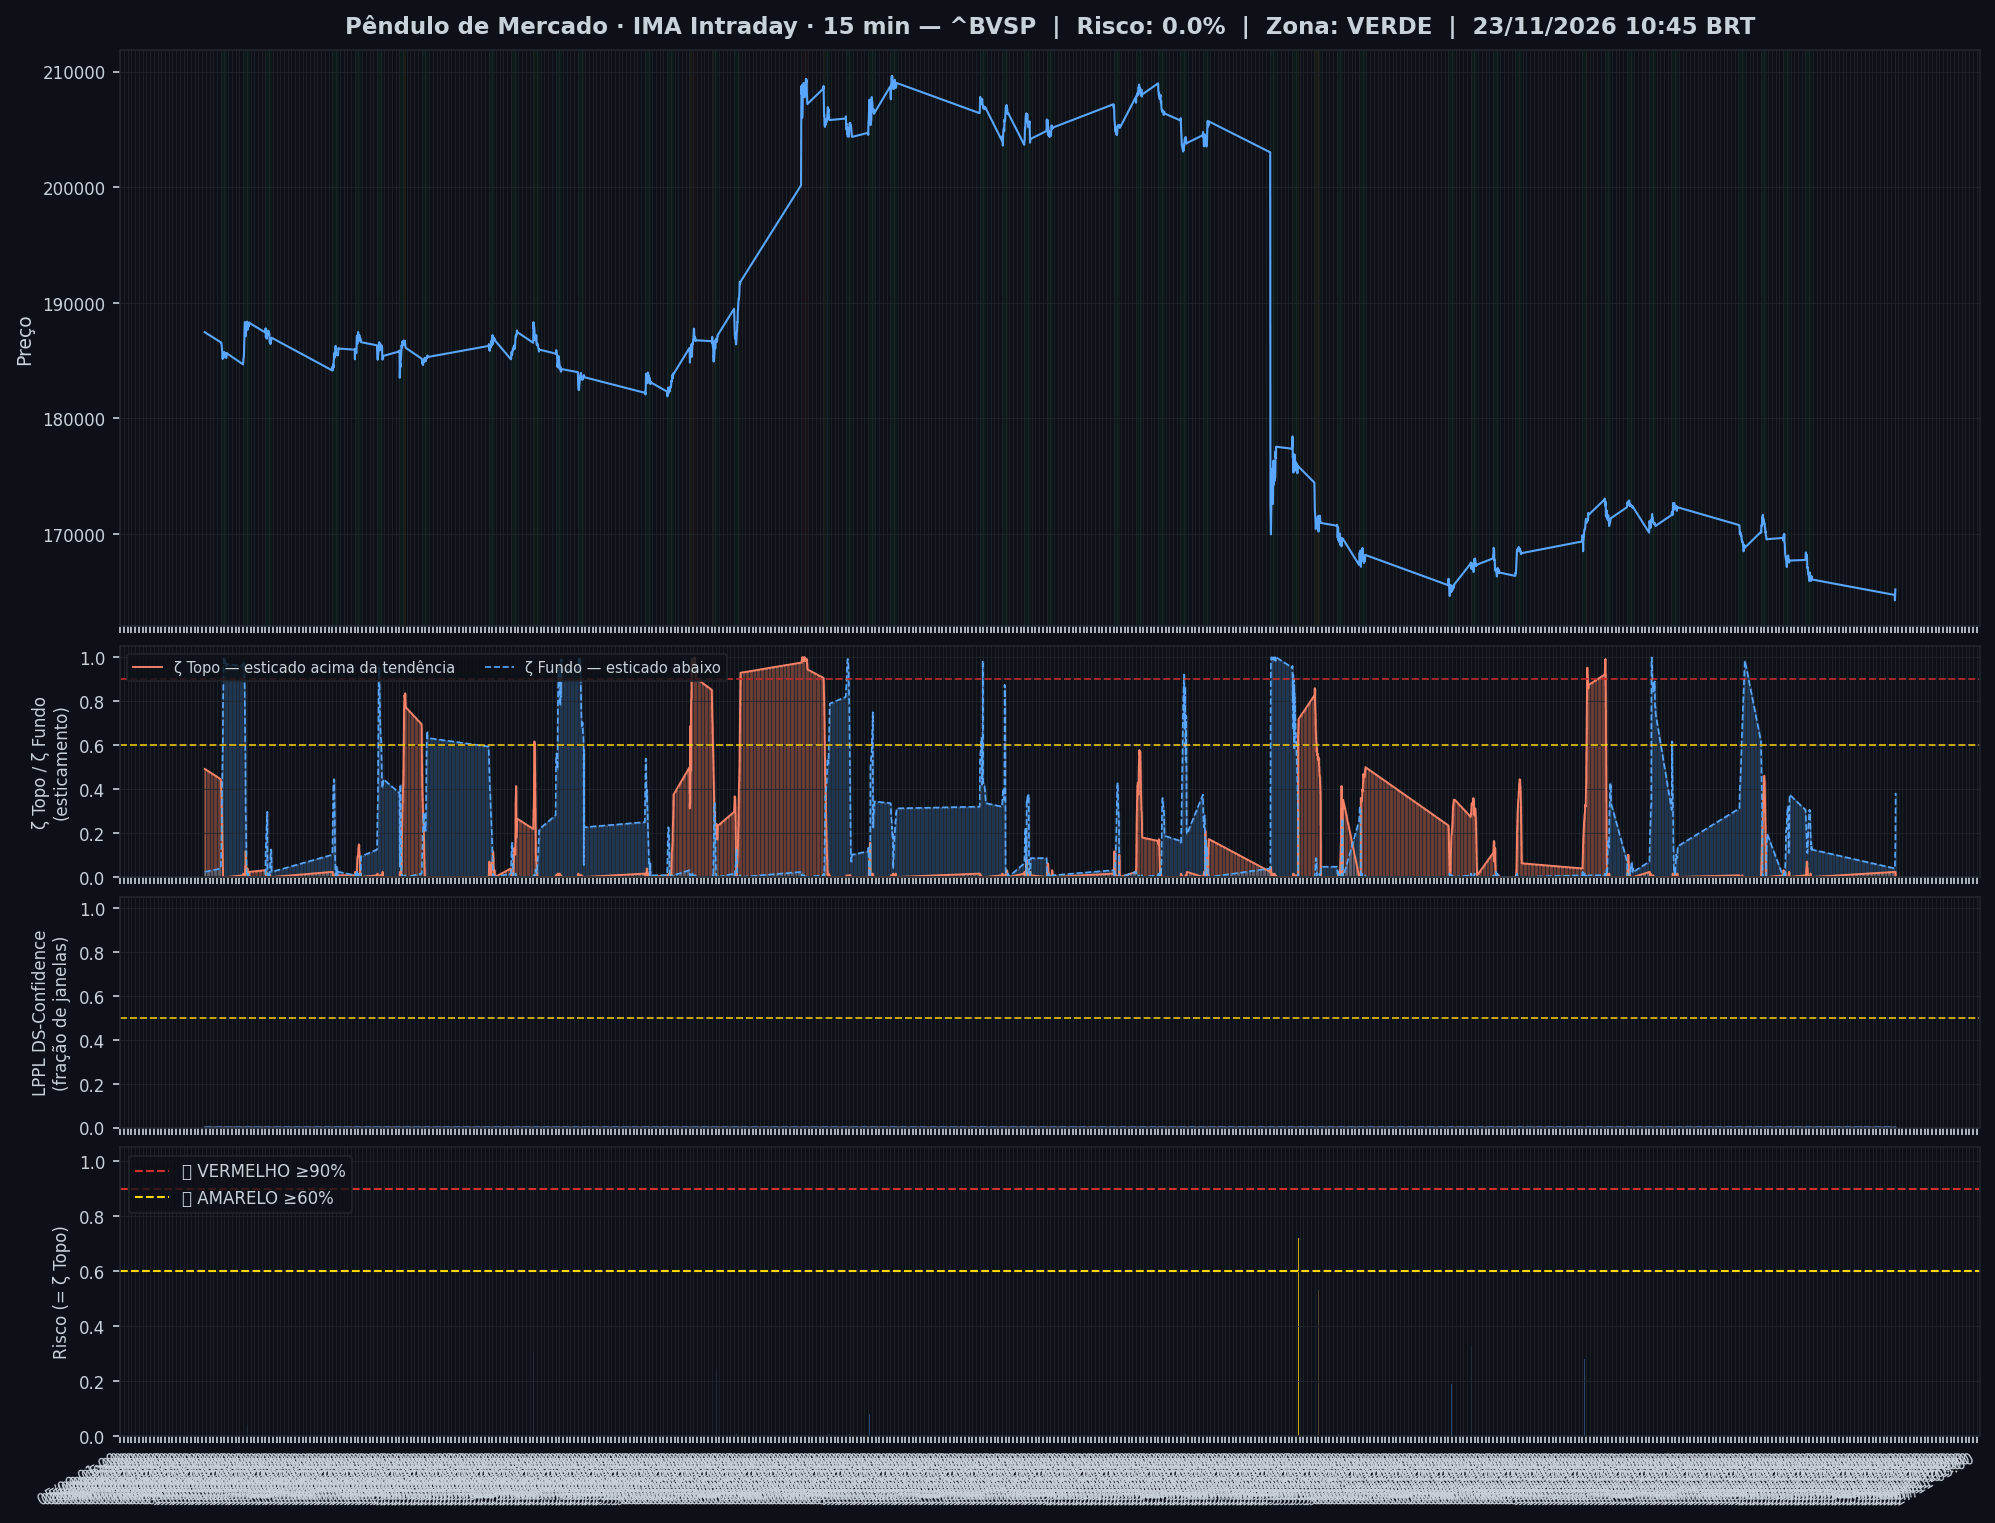
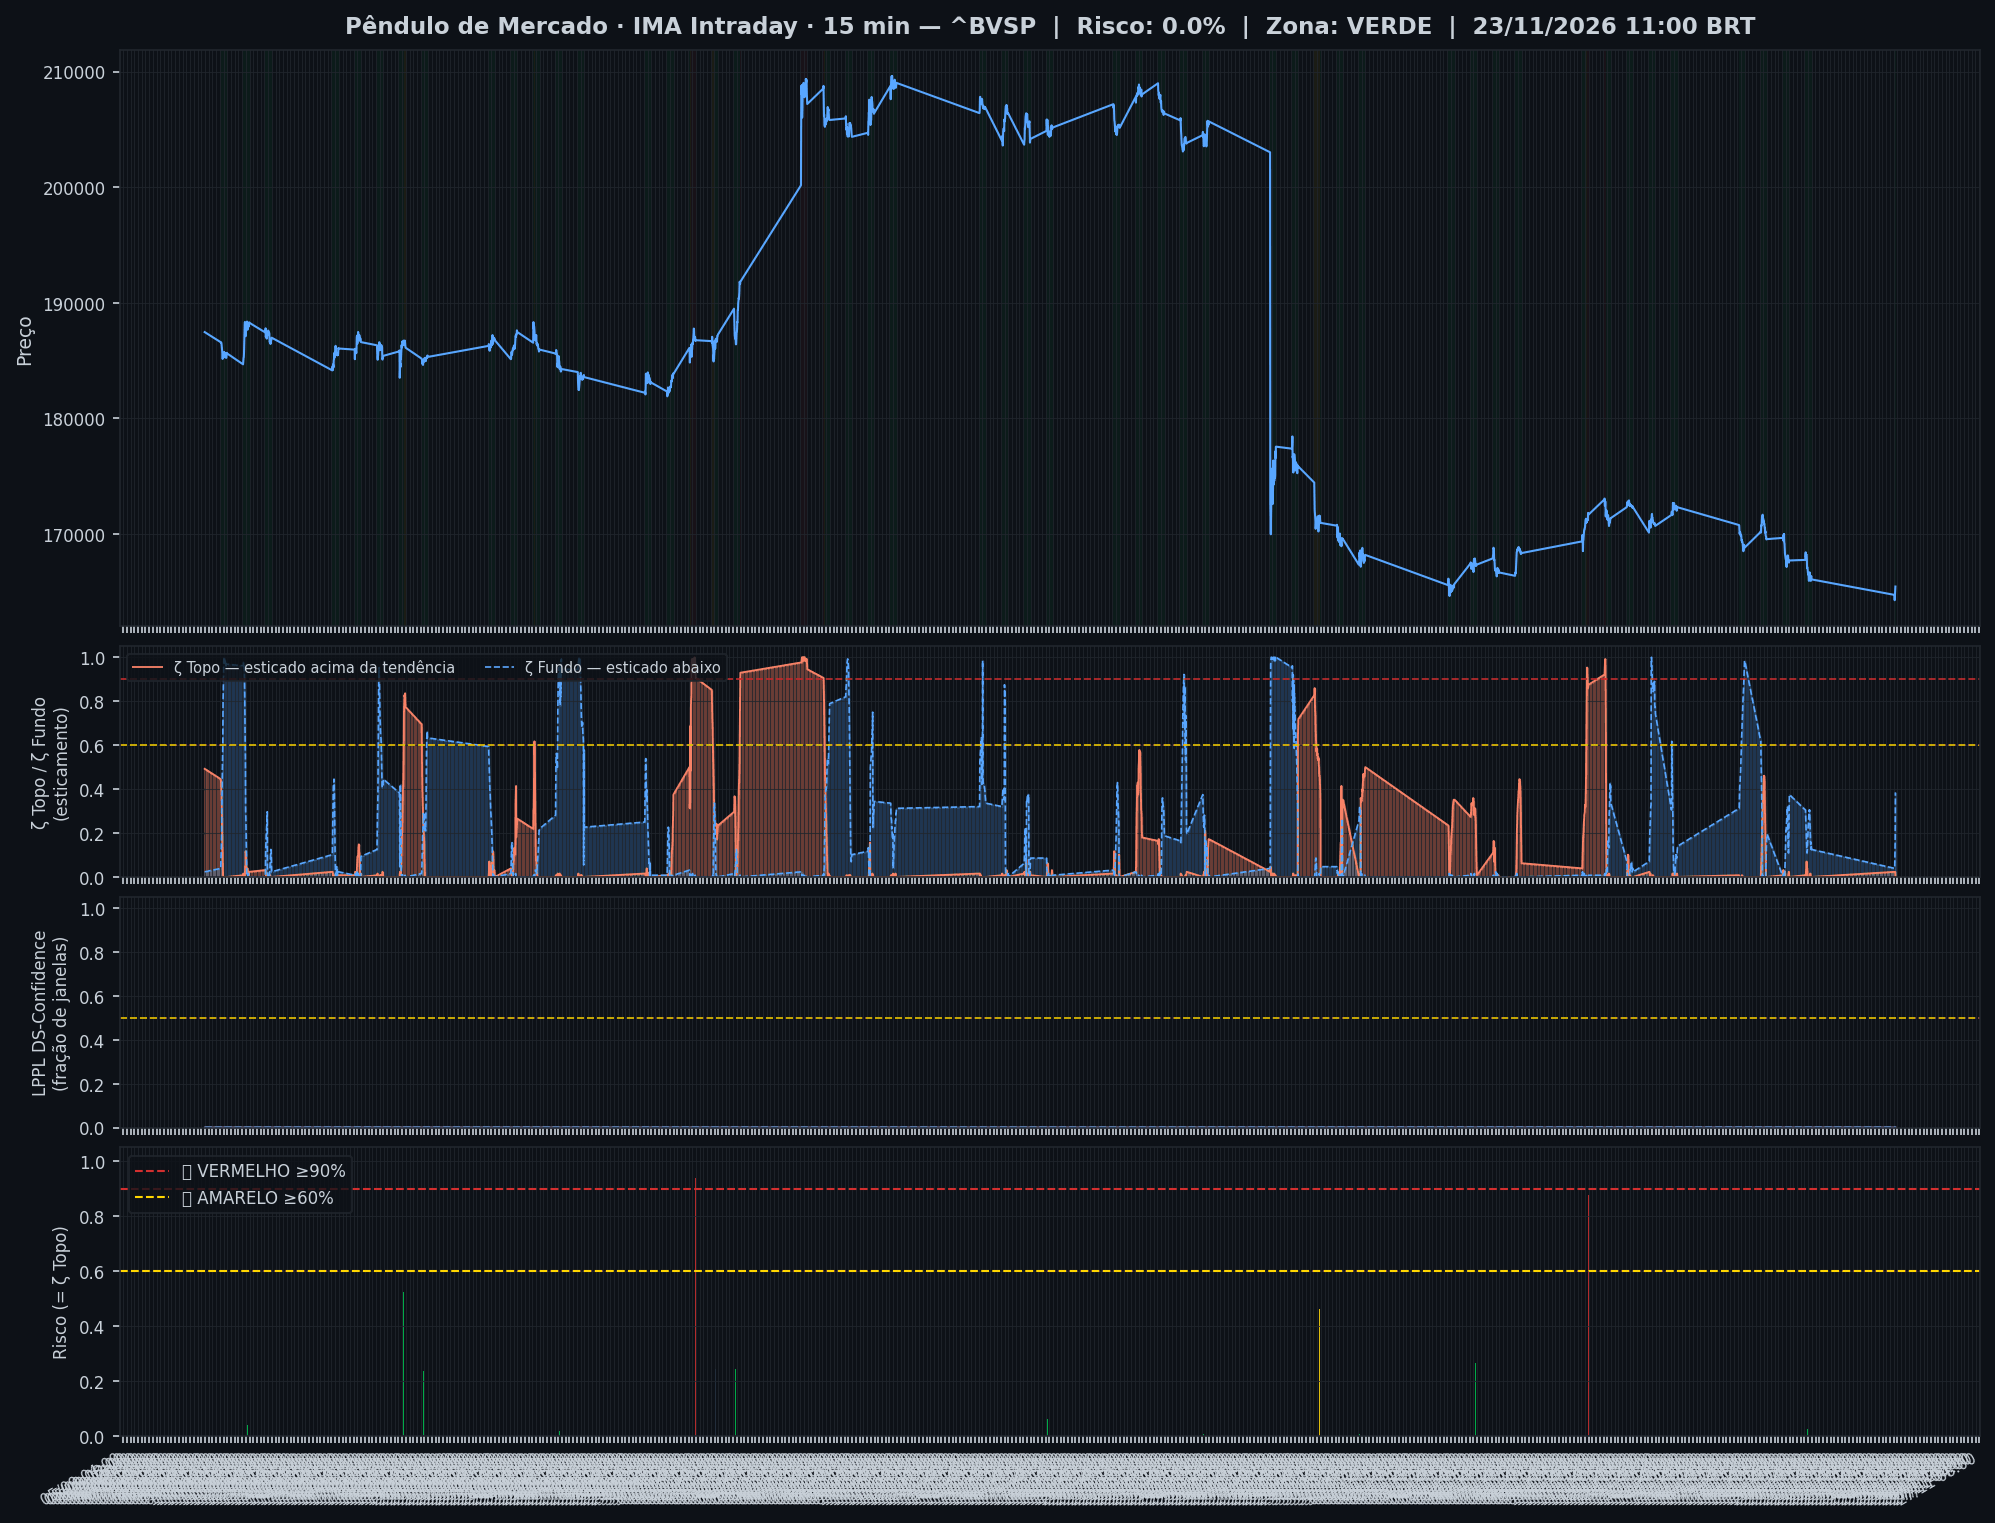
🤖 Auto: Sinal 23/11/2026 11:45

Changed region(s): [[0.0311, 0.9258, 0.9945, 0.9875], [0.0932, 0.432, 0.5283, 0.5863], [0.5594, 0.432, 0.9634, 0.5863]]

diff --git a/content/intraday/2026-11-23.md b/content/intraday/2026-11-23.md
@@ -1,13 +1,13 @@
 ---
-title: "🟢 Intraday 23/11/2026 10:45 BRT — VERDE"
+title: "🟢 Intraday 23/11/2026 11:00 BRT — VERDE"
 date: 2026-11-23
 tags: [intraday]
 ---
 
-> [!success] Onde o mercado está agora (23/11 10:45, candles de 15 min): **🟢 Calmo**
+> [!success] Onde o mercado está agora (23/11 11:00, candles de 15 min): **🟢 Calmo**
 > `Pânico ◀──────●──────────────▶ Euforia`
 >
-> **O Ibovespa cai 1,40% agora, aos 165.193 pontos.** O preço está dentro da sua faixa normal, sem excesso para cima nem para baixo.
+> **O Ibovespa cai 1,26% agora, aos 165.433 pontos.** O preço está dentro da sua faixa normal, sem excesso para cima nem para baixo.
 > No gráfico diário: 🌱 Fundo se desfazendo.
 >
 > *Leitura educacional baseada em 26 anos de dados. Não é recomendação de investimento.*
@@ -20,7 +20,7 @@ tags: [intraday]
 > | 📍 **Sinais** | hoje: nenhum sinal | [abrir](sinais-topo-fundo/) |
 > | 🧪 **Placar ao vivo** | 1 operação(ões), 0 com lucro, soma -0,8% | [abrir](operacoes/) |
 
-> [!success] IMA Intraday · 15 min (23/11 10:45): 🟢 **VERDE** — Risco 0% · ▼ -2 p.p. vs leitura anterior
+> [!success] IMA Intraday · 15 min (23/11 11:00): 🟢 **VERDE** — Risco 0% · ＝ +0 p.p. vs leitura anterior
 > `░░░░░░░░░░░░░░░░░░░░`
 > Preço na faixa normal em torno da tendência.
 
@@ -32,13 +32,13 @@ tags: [intraday]
 >
 > *Leitura educacional baseada em 26 anos de dados, não recomendação. [Como usar](../metodologia/crise#3-como-usar-na-prática).*
 
-| Indicador — IMA Intraday · 15 min (23/11 10:45) | Valor |
+| Indicador — IMA Intraday · 15 min (23/11 11:00) | Valor |
 |---|---|
 | 🔴 ζ Topo — preço esticado acima da tendência | **0%** |
 | 🔵 ζ Fundo — preço esticado abaixo da tendência | 38% |
 | 🫧 LPPL bolha — alta super-exponencial (risco de crash) | 0% |
 | 🫧 LPPL antibolha — queda super-exponencial (risco de repique) | 0% |
-| 📊 Ibovespa | 165.193 pts |
+| 📊 Ibovespa | 165.433 pts |
 
 ![Gráfico do sinal](../graficos/sinal_intraday.png)
 
@@ -46,6 +46,7 @@ tags: [intraday]
 
 | Data | Zona | Evento | Risco | ζ Topo | ζ Fundo | LPPL |
 |---|---|---|---|---|---|---|
+| 2026-11-23 11:00 | 🟢 VERDE |  | **0%** | 0% | 38% | 0% |
 | 2026-11-23 10:45 | 🟢 VERDE |  | **0%** | 0% | 38% | 0% |
 | 2026-11-23 10:30 | 🟢 VERDE |  | **2%** | 2% | 16% | 0% |
 | 2026-11-23 10:15 | 🟢 VERDE |  | **2%** | 2% | 9% | 0% |
@@ -75,52 +76,51 @@ tags: [intraday]
 | 2026-11-19 11:15 | 🟢 VERDE |  | **7%** | 7% | 14% | 0% |
 | 2026-11-19 11:00 | 🟢 VERDE |  | **5%** | 5% | 17% | 0% |
 | 2026-11-19 10:45 | 🟢 VERDE |  | **4%** | 4% | 21% | 0% |
-| 2026-11-19 10:30 | 🟢 VERDE |  | **2%** | 2% | 25% | 0% |
 
 <small>Destaques: 🟡 ≥ 60% · 🔴 ≥ 90% (Risco e ζ Topo) · 🔵 ≥ 60% · 🔪 ≥ 90% (ζ Fundo) · 🫧 ≥ 30% · 🫧🔴 ≥ 50% (LPPL)</small>
 
 ## Monitor Multi-Ativo
 
-**4% dos ativos em tensão** (0🔴 1🟡) · **5 com ζ Fundo alto** — quanto mais ativos disparam juntos, mais confiável o sinal.
+**4% dos ativos em tensão** (0🔴 1🟡) · **6 com ζ Fundo alto** — quanto mais ativos disparam juntos, mais confiável o sinal.
 
 > [!danger] Em destaque no multi-ativo
-> 🔪 **WEG** ζ Fundo 100% · 🔵 **EQUATORIAL** ζ Fundo 90% · 🔵 **EMBRAER** ζ Fundo 87% · 🔵 **PRIO** ζ Fundo 74% · 🟡 **BRASIL** ζ Topo 72% · 🔵 **BRADESCO** ζ Fundo 70%
+> 🔪 **WEG** ζ Fundo 99% · 🔪 **EQUATORIAL** ζ Fundo 95% · 🔪 **EMBRAER** ζ Fundo 92% · 🟡 **BRASIL** ζ Topo 64% · 🔵 **COPEL** ζ Fundo 62% · 🔵 **BRADESCO** ζ Fundo 61% · 🔵 **PRIO** ζ Fundo 61%
 
 | Zona | Ativo | Setor | ζ Topo | ζ Fundo |
 |---|---|---|---|---|
-| 🟢 | **WEG** | Industrial | 0.0% | 🔪 **100.0%** |
-| 🟢 | **EQUATORIAL** | Energia | 0.0% | 🔵 **89.8%** |
-| 🟢 | **EMBRAER** | Outros | 0.0% | 🔵 **86.7%** |
-| 🟢 | **PRIO** | Petróleo | 0.8% | 🔵 **74.2%** |
-| 🟡 | **BRASIL** | Financeiro | 🟡 **71.9%** | 0.0% |
-| 🟢 | **BRADESCO** | Financeiro | 0.0% | 🔵 **69.5%** |
-| 🟢 | **COPEL** | Energia | 0.0% | 57.8% |
-| 🟢 | **REDE D OR** | Saúde | 0.8% | 55.5% |
-| 🟢 | **RUMO S.A.** | Outros | 1.6% | 47.7% |
-| 🟢 | **PETROBRAS** | Petróleo | 0.0% | 39.8% |
-| 🟢 | **PETROBRAS** | Petróleo | 0.0% | 37.5% |
-| 🟢 | **VIBRA** | Energia | 1.6% | 35.2% |
-| 🟢 | **TELEF BRASIL** | Outros | 1.6% | 35.2% |
-| 🟢 | **LOCALIZA** | Aluguel | 0.8% | 30.5% |
-| 🟢 | **SUZANO S.A.** | Papel/Celulose | 7.0% | 18.8% |
-| 🟢 | **GERDAU** | Siderurgia | 0.8% | 18.8% |
+| 🟢 | **WEG** | Industrial | 0.0% | 🔪 **99.2%** |
+| 🟢 | **EQUATORIAL** | Energia | 0.0% | 🔪 **94.5%** |
+| 🟢 | **EMBRAER** | Outros | 0.0% | 🔪 **92.2%** |
+| 🟡 | **BRASIL** | Financeiro | 🟡 **64.1%** | 0.0% |
+| 🟢 | **COPEL** | Energia | 0.8% | 🔵 **61.7%** |
+| 🟢 | **BRADESCO** | Financeiro | 0.0% | 🔵 **60.9%** |
+| 🟢 | **PRIO** | Petróleo | 0.0% | 🔵 **60.9%** |
+| 🟢 | **PETROBRAS** | Petróleo | 0.0% | 47.7% |
+| 🟢 | **REDE D OR** | Saúde | 5.5% | 43.8% |
+| 🟢 | **PETROBRAS** | Petróleo | 0.0% | 36.7% |
+| 🟢 | **TELEF BRASIL** | Outros | 0.0% | 33.6% |
+| 🟢 | **VIBRA** | Energia | 3.1% | 32.8% |
+| 🟢 | **LOCALIZA** | Aluguel | 0.8% | 29.7% |
+| 🟢 | **RUMO S.A.** | Outros | 1.6% | 28.1% |
+| 🟢 | **SUZANO S.A.** | Papel/Celulose | 2.3% | 18.0% |
 | 🟢 | **AXIA ENERGIA** | Energia | 0.0% | 14.8% |
-| 🟢 | **BTGP BANCO** | Financeiro | 0.0% | 14.1% |
-| 🟢 | **ULTRAPAR** | Outros | 0.0% | 7.8% |
-| 🟢 | **B3** | Financeiro | 2.3% | 7.0% |
-| 🟢 | **USD/BRL** | Câmbio | 2.3% | 6.2% |
-| 🟢 | **ITAUSA** | Financeiro | 2.3% | 5.5% |
-| 🟢 | **VALE** | Mineração | 3.1% | 4.7% |
-| 🟢 | **ITAUUNIBANCO** | Financeiro | 3.1% | 3.9% |
-| 🟢 | **SABESP** | Saneamento | 3.9% | 0.8% |
-| 🟢 | **AMBEV S/A** | Consumo | 2.3% | 0.0% |
-| 🟢 | **ENEVA** | Energia | 2.3% | 0.8% |
+| 🟢 | **GERDAU** | Siderurgia | 3.1% | 11.7% |
+| 🟢 | **BTGP BANCO** | Financeiro | 0.8% | 10.2% |
+| 🟢 | **USD/BRL** | Câmbio | 0.0% | 8.6% |
+| 🟢 | **VALE** | Mineração | 6.2% | 2.3% |
+| 🟢 | **ITAUUNIBANCO** | Financeiro | 4.7% | 1.6% |
+| 🟢 | **SABESP** | Saneamento | 4.7% | 0.0% |
+| 🟢 | **ITAUSA** | Financeiro | 3.9% | 2.3% |
+| 🟢 | **B3** | Financeiro | 3.9% | 3.9% |
+| 🟢 | **AMBEV S/A** | Consumo | 3.1% | 0.0% |
+| 🟢 | **ENEVA** | Energia | 3.1% | 0.0% |
+| 🟢 | **ULTRAPAR** | Outros | 0.0% | 3.1% |
 
 <small>Destaques: 🟡 ≥ 60% · 🔴 ≥ 90% (Risco e ζ Topo) · 🔵 ≥ 60% · 🔪 ≥ 90% (ζ Fundo) · 🫧 ≥ 30% · 🫧🔴 ≥ 50% (LPPL)</small>
 
 ![Monitor multi-ativo](../graficos/multi_intraday.png)
 
-*Página atualizada em 23/11/2026 11:30 BRT (leitura da barra de 2026-11-23 10:45 BRT).*
+*Página atualizada em 23/11/2026 11:45 BRT (leitura da barra de 2026-11-23 11:00 BRT).*
 
 > [!warning] O que este indicador não faz
 > Medido em 5 anos de Ibovespa, o ζ **não antecipa** topos nem fundos: a capacidade de separar o que sobe do que cai ficou em 0,49–0,52, e 0,50 é moeda jogada ao ar. Ele descreve o estado de agora; não é aviso do que vem. As zonas verde/amarelo/vermelho continuam na página como descrição desse estado — **não as use como sinal de entrada ou saída**.

diff --git a/content/index.md b/content/index.md
@@ -7,12 +7,12 @@ tags: [home]
 
 **As ondas do mercado, explicadas.** Leitura do Ibovespa com estatística de 26 anos, baseada no trabalho de pesquisadores e traders reconhecidos e adaptada por Jarbas Daniel da Costa.
 
-*Última atualização: 23/11/2026 11:30 BRT · Intraday 15min*
+*Última atualização: 23/11/2026 11:45 BRT · Intraday 15min*
 
-> [!success] Onde o mercado está agora (23/11 10:45, candles de 15 min): **🟢 Calmo**
+> [!success] Onde o mercado está agora (23/11 11:00, candles de 15 min): **🟢 Calmo**
 > `Pânico ◀──────●──────────────▶ Euforia`
 >
-> **O Ibovespa cai 1,40% agora, aos 165.193 pontos.** O preço está dentro da sua faixa normal, sem excesso para cima nem para baixo.
+> **O Ibovespa cai 1,26% agora, aos 165.433 pontos.** O preço está dentro da sua faixa normal, sem excesso para cima nem para baixo.
 > No gráfico diário: 🌱 Fundo se desfazendo.
 >
 > *Leitura educacional baseada em 26 anos de dados. Não é recomendação de investimento.*
@@ -50,18 +50,18 @@ tags: [home]
 > *Leitura educacional baseada em 26 anos de dados, não recomendação. [Como usar](metodologia/crise#3-como-usar-na-prática).*
 
 > [!info]- 🌊 Detalhes do Sinal IMA (indicadores e últimos 7 pregões)
-> > [!success] IMA Intraday · 15 min (23/11 10:45): 🟢 **VERDE** — Risco 0% · ▼ -2 p.p. vs leitura anterior
+> > [!success] IMA Intraday · 15 min (23/11 11:00): 🟢 **VERDE** — Risco 0% · ＝ +0 p.p. vs leitura anterior
 > > `░░░░░░░░░░░░░░░░░░░░`
 > > Preço na faixa normal em torno da tendência.
 >
 >
-> | Indicador — IMA Intraday · 15 min (23/11 10:45) | Valor |
+> | Indicador — IMA Intraday · 15 min (23/11 11:00) | Valor |
 > |---|---|
 > | 🔴 ζ Topo — preço esticado acima da tendência | **0%** |
 > | 🔵 ζ Fundo — preço esticado abaixo da tendência | 38% |
 > | 🫧 LPPL bolha — alta super-exponencial (risco de crash) | 0% |
 > | 🫧 LPPL antibolha — queda super-exponencial (risco de repique) | 0% |
-> | 📊 Ibovespa | 165.193 pts |
+> | 📊 Ibovespa | 165.433 pts |
 >
 > **Multi-ativo:** 4% em tensão (0🔴 1🟡 de 27 ativos)
 >

diff --git a/content/integridade/index.md b/content/integridade/index.md
@@ -6,7 +6,7 @@ description: "O que foi conferido, contra qual fonte e quando — medido na hora
 tags: [integridade]
 ---
 
-*Pregão conferido: **19/11/2026**, com 54 tabelas no acervo · página gerada em 23/11/2026 11:30*
+*Pregão conferido: **19/11/2026**, com 54 tabelas no acervo · página gerada em 23/11/2026 11:45*
 
 O pregão conferido é o último **fechado e arquivado inteiro**, não o de hoje: enquanto o dia corre, só algumas tabelas estão gravadas, e conferir um dia pela metade produziria alarme falso.
 
@@ -23,7 +23,7 @@ Esta página não declara que o site está correto. Ela **mede** e escreve o res
 | Tabelas com conteúdo fora da curva | nenhuma |
 | Páginas publicadas | 364 |
 | Conferências cruzadas das páginas | 71 certas, nenhuma divergência |
-| Página escrita mais recentemente | 23/11 11:30 |
+| Página escrita mais recentemente | 23/11 11:45 |
 | Páginas sem data no cabeçalho | 9 — cegas para a conferência de dado |
 
 ## 1 · Acervo do boletim diário
@@ -122,7 +122,7 @@ Pregão mais recente declarado por alguma página: **19/11/2026**.
 |---|---|---:|
 | `diario/index.md` | 16/11 14:43 | 6.9 |
 | `intraday/index.md` | 16/11 14:43 | 6.9 |
-| `por-onde-comecar.md` | 16/11 15:20 | 6.8 |
+| `por-onde-comecar.md` | 16/11 15:20 | 6.9 |
 | `autopsias/index.md` | 19/11 14:39 | 3.9 |
 | `sinais-topo-fundo/index.md` | 20/11 19:00 | 2.7 |
 | `sinais-topo-fundo/todos-os-sinais.md` | 20/11 19:00 | 2.7 |

diff --git a/content/operacoes/entradas.md b/content/operacoes/entradas.md
@@ -84,7 +84,7 @@ description: "Compra depois de um sinal de fundo: Nadaraya no diário, semáforo
 > | Diário · Semáforo N3 após ζ Fundo | 07/07/26 a 172.021 | 10/08/26 a 172.021 | **+0,0%** | stop no preço de entrada |
 > | H4 · Semáforo N2 | 12/06/26 14h a 171.134 | 15/06/26 14h a 171.134 | **+0,0%** | stop no preço de entrada |
 >
-> <small>Atualizado 20/11 19:00 · checado no pregão às 11:00. Nota: ✅ passou no teste fora da amostra (walk-forward 2008–2026) · 🧪 em teste (H4, com aviso no Telegram) ou em observação (ζ, sem aviso) · 🧪 na tabela = operação do teste ao vivo.</small>
+> <small>Atualizado 20/11 19:00 · checado no pregão às 11:15. Nota: ✅ passou no teste fora da amostra (walk-forward 2008–2026) · 🧪 em teste (H4, com aviso no Telegram) ou em observação (ζ, sem aviso) · 🧪 na tabela = operação do teste ao vivo.</small>
 >
 > *Regras: depois de um sinal de fundo, o Diário entra quando o Nadaraya vira para cima; o Semanal e o H4 entram quando um fundo do semáforo fica fixo. Stop e saída de cada regra na [metodologia](metodologia/regras-de-operacao#entradas-do-método). Nenhuma regra de venda passou no teste. Os números do histórico têm viés de escolha (overfitting); o placar ao vivo é o que vale. Leitura educacional do método, não recomendação.*
 

diff --git a/content/operacoes/ranking.md b/content/operacoes/ranking.md
@@ -56,7 +56,7 @@ description: "As regras de compra do site ordenadas pelo resultado, com treino, 
 > 
 > Operação **com 🧪** começou depois de **23/10/2026**, com as regras congeladas. É o único resultado sem nenhum ajuste ao passado, e é por ele que cada regra está sendo julgada.
 
-*Atualizado 23/11/2026 11:30 · histórico simulado com as regras congeladas em 23/10/2026 + placar ao vivo.*
+*Atualizado 23/11/2026 11:45 · histórico simulado com as regras congeladas em 23/10/2026 + placar ao vivo.*
 
 As regras de compra do site, **da que mais rendeu para a que menos rendeu**. O resultado é por operação, no índice à vista, sem custos e sem juros compostos (a soma é só a soma das operações). **Treino** = entradas de 2001 a 2013 e **teste** = 2014 em diante: uma regra só é confiável se ganhou nos dois. O único resultado sem nenhum ajuste ao histórico é o **placar ao vivo**.
 

diff --git a/content/historico.md b/content/historico.md
@@ -5,7 +5,7 @@ tags: [historico]
 
 # 📜 Histórico de leituras (v5)
 
-**2.519 leituras** desde 2026-07-03. Na página ficam os últimos 3 dias leitura por leitura e o resumo de cada dia anterior; o registro inteiro está no arquivo para baixar.
+**2.520 leituras** desde 2026-07-03. Na página ficam os últimos 3 dias leitura por leitura e o resumo de cada dia anterior; o registro inteiro está no arquivo para baixar.
 
 [**Baixar o histórico completo**](historico-completo.csv) (110 KB · abre no Excel e no LibreOffice)
 
@@ -16,6 +16,7 @@ tags: [historico]
 
 | Data | Modo | Zona | Risco | IMA | LPPL |
 |---|---|---|---|---|---|
+| 2026-11-23 11:00 | intraday | 🟢 VERDE | 0% | 0% | 0% |
 | 2026-11-23 10:45 | intraday | 🟢 VERDE | 0% | 0% | 0% |
 | 2026-11-23 10:30 | intraday | 🟢 VERDE | 2% | 2% | 0% |
 | 2026-11-23 10:15 | intraday | 🟢 VERDE | 2% | 2% | 0% |

diff --git a/content/linha-do-tempo/index.md b/content/linha-do-tempo/index.md
@@ -5,7 +5,7 @@ description: "Todo sinal, ordem, stop e aviso do Pêndulo de Mercado, do mais re
 tags: [eventos]
 ---
 
-*Atualizada 23/11/2026 11:30 BRT · a cada 15 min no pregão e às 19h.*
+*Atualizada 23/11/2026 11:45 BRT · a cada 15 min no pregão e às 19h.*
 
 Tudo o que o sistema fez ou detectou, **do mais recente para o mais antigo**: sinais de topo e fundo, ordens de compra e de venda armadas, compras, vendas, stops, avisos de 🚨 preço perto do nível e mudanças do Sinal IMA. Os **últimos 7 dias** ficam abertos; o resto, por **ano → mês → dia**.
 

diff --git a/content/avisos/index.md b/content/avisos/index.md
@@ -2,7 +2,7 @@
 title: "⚠ Avisos: o que saber antes de usar os números"
 ---
 
-*Gerado em 23/11/2026 11:30*
+*Gerado em 23/11/2026 11:45*
 
 Este site publica muitos números, e cada um tem uma limitação que importa na hora de
 decidir. As limitações estão escritas nas próprias páginas, mas quem chega direto numa
